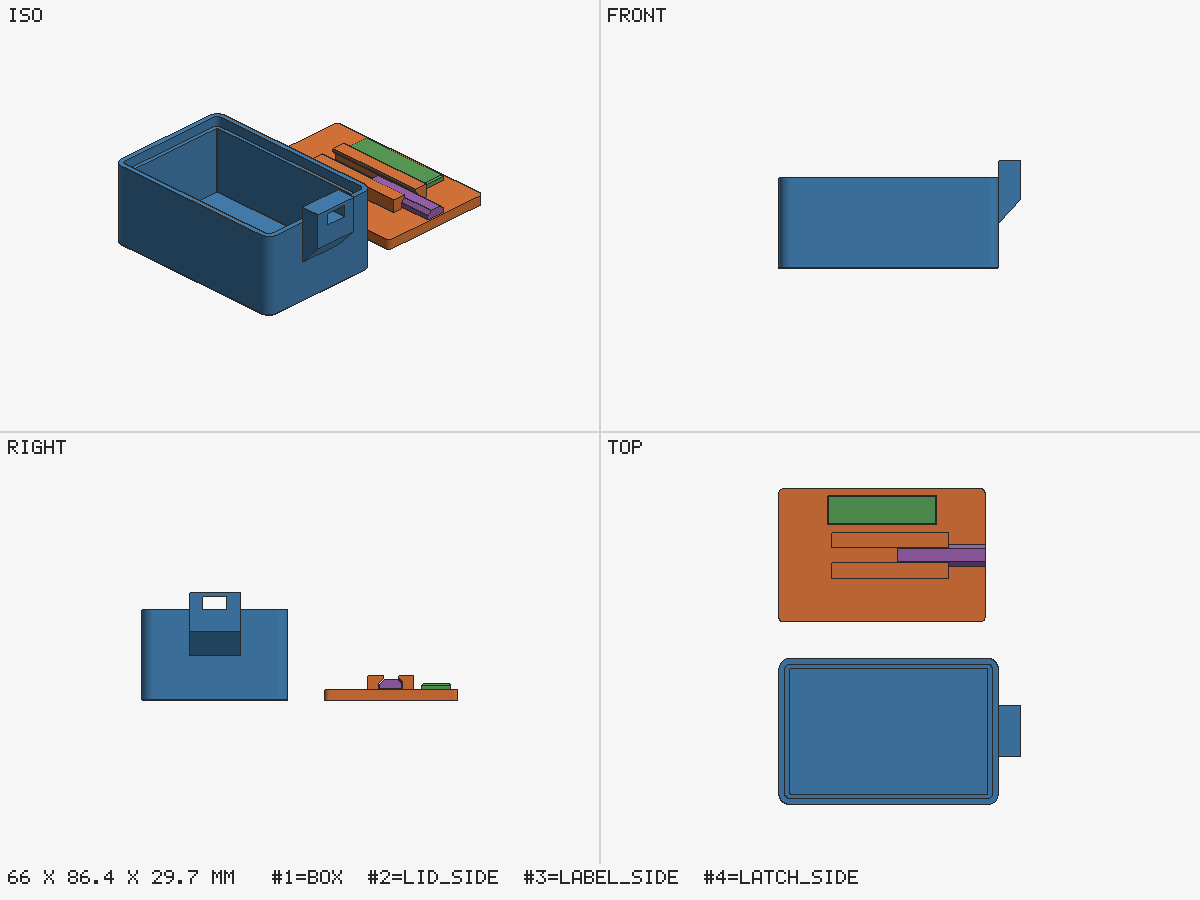
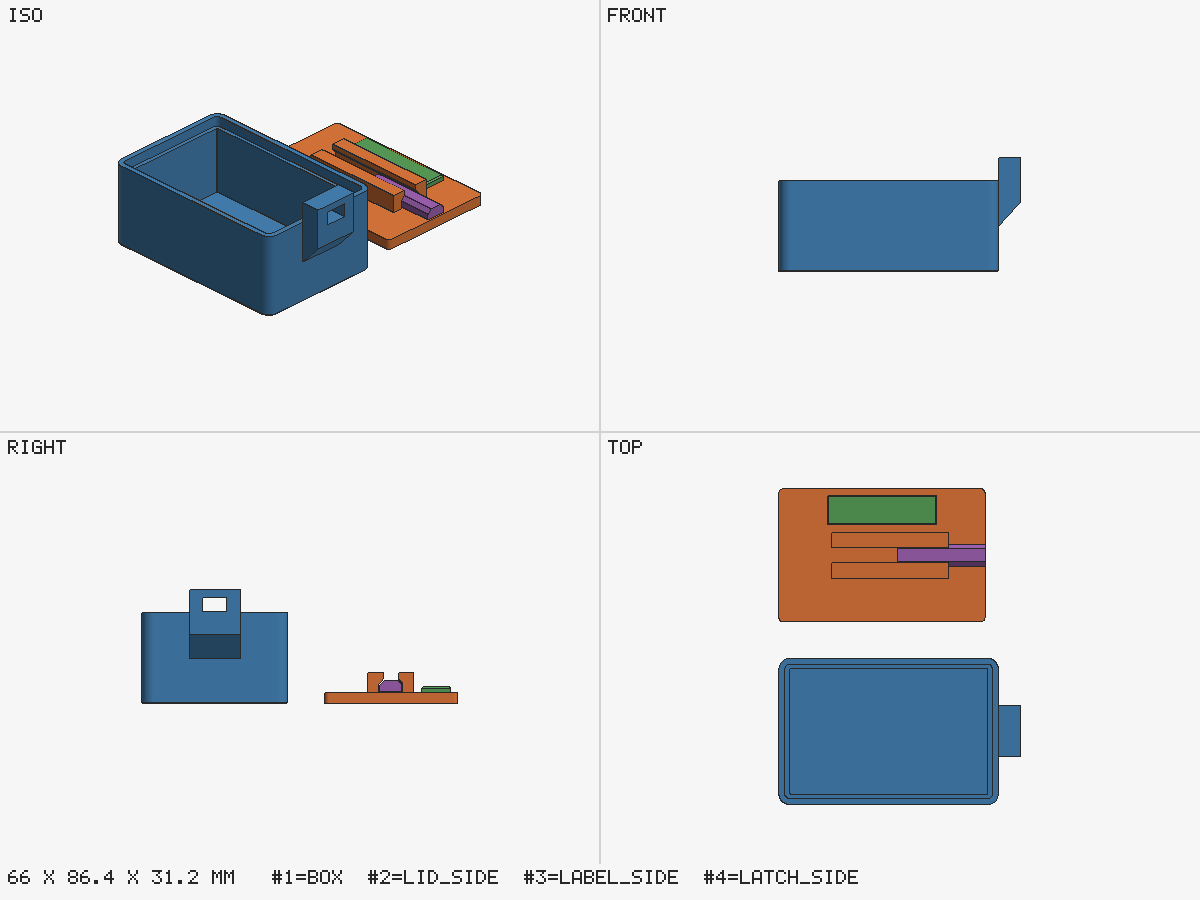
Mechanism minimums from the field: design.md section, hinge defaults, latch-box thickened
The field test's adapter was printed and its print-in-place draw latches broke
on first use: stub pins of 2.6 mm in about 2 mm plates, 1.3 mm of knuckle wall,
1.2 mm link arms, every member at the P3 printability minimum. A working
print-in-place latch from an earlier project (one 3.2 mm through pin in 4.25 mm
rails, at least 2.2 mm of wall around the hole, 2.5 mm at the thinnest member,
about six times the material) gives the starting points, recorded in design.md
"Mechanisms that carry load" with the failed-vs-working table and marked as a
one-pair field comparison, not a standard: pin >= 3.2 mm, pin wall >= 2.2 mm,
members >= 2.5 mm in bending and >= 4 mm wide, one through pin supported at both
ends, 0.3-0.35 mm radial clearance; flexures stay with the snap-fit check.

parts.hinge() defaults to pin 3.2, knuckle 8.4, leaf 2.6 and refuses a thinner
pin, wall, leaf or knuckle with the source named; decorative=True relaxes them
to what still prints for a hinge that carries nothing. The other helpers build
no pins (standoff's 2 mm boss wall follows the insert guidance). examples/latch-box
thickens its bar (3.0), rail lips (1.6 at the tip) and lug ceiling (2.5), with
new previews, README numbers and expects. SKILL.md gains checklist row P7 and
one line each in Phase 3 and 4; fusion.md and the Builder point to the section;
the changelog says what failed and why the numbers are starting points.

Claude-Session: https://claude.ai/code/session_01Wtr1X1KLx9gRHT2MgT9VdH

diff --git a/scripts/parts.py b/scripts/parts.py
@@ -534,29 +534,51 @@ def snap_window(length: float = 16.0, thickness: float = 1.6, width: float = 6.0
 # --------------------------------------------------------------------------- #
 # Print-in-place hinge (axis along X, lying on the bed)
 # --------------------------------------------------------------------------- #
-def hinge(length: float = 30.0, knuckle_d: float = 8.0, pin_d: float = 3.0, leaf_w: float = 12.0,
-          leaf_t: float = 2.4, knuckles: int = 3, clearance: float = PRINT_IN_PLACE_CLEARANCE,
-          segments: int | None = None) -> dict:
+# Mechanism minimums for members that carry load (design.md, "Mechanisms that carry load":
+# field comparison 2026-10 of a failed and a working print-in-place latch; starting points).
+MECHANISM = {"pin_d": 3.2, "pin_wall": 2.2, "member": 2.5, "knuckle_len": 4.0}
+# What still prints: a decorative hinge that carries nothing (tolerances.md limits).
+DECORATIVE = {"pin_d": 2.0, "pin_wall": 1.2, "member": 1.2, "knuckle_len": 2.0}
+
+
+def hinge(length: float = 30.0, knuckle_d: float = 8.4, pin_d: float = 3.2, leaf_w: float = 12.0,
+          leaf_t: float = 2.6, knuckles: int = 3, clearance: float = PRINT_IN_PLACE_CLEARANCE,
+          segments: int | None = None, decorative: bool = False) -> dict:
     """Two leaves joined by a pin, printed assembled. Axis along X at z = knuckle_d / 2, leaf A on
     -Y, leaf B on +Y, both flat on the bed. Knuckles alternate A, B, A ... along X with
     `clearance` between them; the pin is part of A and runs through B's knuckles with
     `clearance` all round. The pin is a teardrop (round below, 45-degree point on top) so it
     prints without support, and the knuckles have a flat underside.
 
+    Defaults follow design.md's mechanism minimums (a hinge carries load): pin 3.2 mm, 2.3 mm
+    of knuckle wall around the pin hole (8.4 - 3.2 - 2 x 0.3, halved), leaves 2.6 mm, knuckles
+    9.8 mm long. Thinner values raise ValueError; `decorative=True` relaxes them to what still
+    prints (pin 2.0, wall and leaf 1.2, knuckles 2 mm) for a hinge that carries nothing, such
+    as a box lid that is only looked at.
+
     Returns {"leaf_a": Manifold, "leaf_b": Manifold}: two bodies that never touch. Export both
     into ONE STL (validate with --shells 2) or two STLs placed as built."""
     if knuckles < 2:
         raise ValueError("a hinge needs at least two knuckles")
+    lim = DECORATIVE if decorative else MECHANISM
+    why = "tolerances.md limits (decorative=True)" if decorative else "design.md, Mechanisms that carry load"
     R = knuckle_d / 2
     rp = pin_d / 2
-    if rp + clearance >= R - 1.2:
-        raise ValueError("knuckle wall around the pin is thinner than 1.2 mm; raise knuckle_d")
+    wall = R - (rp + clearance)
+    if pin_d < lim["pin_d"] - 1e-9:
+        raise ValueError(f"pin {pin_d} mm is under the {lim['pin_d']} mm minimum ({why})")
+    if wall < lim["pin_wall"] - 1e-9:
+        raise ValueError(f"knuckle wall around the pin is {wall:.2f} mm, under the {lim['pin_wall']} mm minimum ({why}); "
+                         f"raise knuckle_d to at least {pin_d + 2 * clearance + 2 * lim['pin_wall']:.1f}")
+    if leaf_t < lim["member"] - 1e-9:
+        raise ValueError(f"leaf {leaf_t} mm is under the {lim['member']} mm minimum for a member that carries load ({why})")
     if leaf_t > R:
         raise ValueError("leaf thickness must not exceed the knuckle radius")
     seg = segments or circle_segments(R)
     kl = (length - (knuckles - 1) * clearance) / knuckles          # knuckle length along X
-    if kl < 2.0:
-        raise ValueError("knuckles shorter than 2 mm; use fewer knuckles or a longer hinge")
+    if kl < lim["knuckle_len"] - 1e-9:
+        raise ValueError(f"knuckles {kl:.1f} mm long, under the {lim['knuckle_len']} mm minimum ({why}); use fewer "
+                         "knuckles or a longer hinge")
 
     def tombstone(r: float) -> CrossSection:
         """Circle of radius r at (0, r) with a flat bottom on y = 0 (profile in the YZ plane)."""

diff --git a/examples/latch-box/latchbox.py b/examples/latch-box/latchbox.py
@@ -6,7 +6,9 @@ at the origin, Z = 0 on the bed): the lid plate with its two rails, the label pl
 sits on the lid (role fused: shared face, no union, so the slicer shows it as its own part
 and it can take another filament), and the latch bar that lies between the rails under
 their lips (role free: 0.3 mm to the rails, 0.4 mm = two layers above the plate, bridged).
-Pushed outwards, the bar enters a window in the keeper lug on the box wall.
+Pushed outwards, the bar enters a window in the keeper lug on the box wall. The bar, the
+rail lips and the lug ceiling carry the lid-lift load, so they follow design.md's mechanism
+minimums (>= 2.5 mm in the bending direction), not the 1.2 mm printability minimum.
 """
 import manifold3d as m3d
 import parts
@@ -28,14 +30,14 @@ DEFAULTS = {
     "pip": 0.3,             # mm per side, print-in-place gap (tolerances.md)
     "z_gap": 0.4,           # mm, latch above the lid: two 0.2 mm layers, bridged
     "bar_w": 6.0,           # mm, latch bar width
-    "bar_h": 2.5,           # mm, latch bar height to its flat top
+    "bar_h": 3.0,           # mm, latch bar height to its flat top (design.md mechanisms: >= 2.5 in bending)
     "bar_len": 24.0,        # mm
     "bar_chamfer": 1.2,     # mm, 45-degree chamfer on the bar's top edges (under the lips)
     "rail_w": 3.0,          # mm, rail width
-    "rail_h": 4.0,          # mm, rail height above the lid
+    "rail_h": 5.4,          # mm, rail height above the lid (z_gap + bar_h + pip + lip_t)
     "rail_len": 32.0,       # mm
     "lip": 1.2,             # mm, how far the lip reaches over the bar
-    "lip_t": 0.8,           # mm, lip thickness at its tip
+    "lip_t": 1.6,           # mm, lip thickness at its tip (the lip carries the lid-lift load; root about 2.9)
     "travel": 6.0,          # mm, how far the bar is pushed to lock (into the lug window)
     "label_w": 30.0,        # mm, label plate (colour part)
     "label_d": 8.0,         # mm
@@ -91,7 +93,7 @@ def build(params):
     # window the latch bar slides into (0.3 mm clearance all round, 0.1 mm above the rim).
     lo, lw = p["lug_out"], p["lug_w"]
     cy = d / 2
-    z_top = h + p["z_gap"] + p["bar_h"] + p["pip"] + 1.5
+    z_top = h + p["z_gap"] + p["bar_h"] + p["pip"] + 2.5             # 2.5 mm of lug above the window (design.md mechanisms)
     lug_pts = [(w - 0.01, h - lo * 1.1 - 6.0), (w + lo, h - 6.0), (w + lo, z_top), (w - 0.01, z_top)]
     lug = M.extrude(CS([lug_pts]), lw).rotate([90, 0, 0]).translate([0, cy + lw / 2, 0])
     box += lug

diff --git a/tests/test_parts.py b/tests/test_parts.py
@@ -174,15 +174,33 @@ class SnapFits(PartCase):
 class Hinges(PartCase):
     def test_print_in_place_hinge(self):
         h = parts.hinge()
-        a = self.assertSolid(h["leaf_a"], bbox=[30, 20.3, 8])
-        b = self.assertSolid(h["leaf_b"], bbox=[30, 20.3, 8])
-        self.assertSolid(h["leaf_a"] + h["leaf_b"], shells=2, bbox=[30, 32.6, 8])
+        a = self.assertSolid(h["leaf_a"], bbox=[30, 20.7, 8.4])
+        b = self.assertSolid(h["leaf_b"], bbox=[30, 20.7, 8.4])
+        self.assertSolid(h["leaf_a"] + h["leaf_b"], shells=2, bbox=[30, 33.0, 8.4])
         self.assertEqual((h["leaf_a"] ^ h["leaf_b"]).volume(), 0.0)
         self.assertAlmostEqual(h["leaf_a"].min_gap(h["leaf_b"], 1.0), 0.3, delta=0.01)   # tolerances.md
         self.assertEqual(a["bbox_min_mm"][2], 0.0)                                      # both on the bed
         self.assertEqual(b["bbox_min_mm"][2], 0.0)
-        with self.assertRaises(ValueError):
-            parts.hinge(knuckle_d=5, pin_d=3)                                 # wall under 1.2 mm
+
+    def test_mechanism_minimums(self):
+        """design.md, Mechanisms that carry load: a pin wall under 2.2 mm, a leaf under 2.5 mm, a
+        knuckle under 4 mm or a pin under 3.2 mm is refused with the source named."""
+        cases = {"wall": dict(knuckle_d=7.0, pin_d=3.2),            # (7 - 3.8) / 2 = 1.6 mm
+                 "pin": dict(pin_d=2.6, knuckle_d=8.0),
+                 "leaf": dict(leaf_t=2.0),
+                 "knuckles": dict(length=12.0, knuckles=3)}         # (12 - 0.6) / 3 = 3.8 mm
+        for name, kw in cases.items():
+            with self.assertRaisesRegex(ValueError, "design.md", msg=name):
+                parts.hinge(**kw)
+        self.assertEqual(parts.MECHANISM, {"pin_d": 3.2, "pin_wall": 2.2, "member": 2.5, "knuckle_len": 4.0})
+        # The failed field latch's numbers: a 2.6 mm pin in a 6.0 mm knuckle is refused outright.
+        with self.assertRaisesRegex(ValueError, "minimum"):
+            parts.hinge(knuckle_d=6.0, pin_d=2.6)
+        # A hinge that carries nothing may go down to what still prints.
+        h = parts.hinge(length=16, knuckle_d=5.2, pin_d=2.0, leaf_t=1.6, knuckles=3, decorative=True)
+        self.assertSolid(h["leaf_a"] + h["leaf_b"], shells=2)
+        with self.assertRaisesRegex(ValueError, "tolerances.md"):
+            parts.hinge(knuckle_d=4.4, pin_d=2.0, decorative=True)       # wall 0.9 mm: does not print
 
 
 class Text(PartCase):

diff --git a/references/engines/fusion_builder.py b/references/engines/fusion_builder.py
@@ -28,7 +28,8 @@ parameter in Fusion's Change Parameters dialog rebuilds the model.
         print(B.export(r"C:\\path\\to\\out", ["body"]))  # one STL per body, JSON summary
 
 Derived from the Builder that ran in the 2026-10-17 field test (X2D exhaust adapter); this
-cleaned version has not yet been run in Fusion. Pure-Python helpers (frames, parameter names,
+cleaned version has not yet been run in Fusion. Size pins, knuckles and levers by design.md,
+"Mechanisms that carry load", not by the 1.2 mm printability minimum: that adapter's latches broke. Pure-Python helpers (frames, parameter names,
 box overlap, the summary) are unit-tested; the API calls are checked against the Fusion API
 reference only.
 """

diff --git a/references/design.md b/references/design.md
@@ -114,9 +114,43 @@ heads ISO 10642 (theoretical dk, 90°) [14]; M2/M2.5 countersink values are star
   layer of the upper part bridges the gap, so keep gaps a whole number of layer heights (0.2
   or 0.4 mm at 0.2 mm layers) where a surface sits above another (starting point).
 - Knuckles get a flat on the bed side; the leaf plates lie flat. `parts.hinge(...)` builds
-  such a hinge; validate it with `--shells 2` (two bodies that never touch).
+  such a hinge to the mechanism minimums below; validate it with `--shells 2` (two bodies
+  that never touch).
 - After the print, free the joint with a few firm twists before the parts cool completely
   (PLA is still soft) — tell the user.
+
+## Mechanisms that carry load
+
+P3's 1.2 mm is a **printability** minimum, not a strength minimum. A latch, lever, pin,
+knuckle or link that is pushed, pulled or snapped by hand sees far more than a wall does.
+Starting points for members that carry load (field comparison, 2026-10, one failed and one
+working print-in-place latch, PLA or PETG, 0.4 mm nozzle, 0.2 mm layers; starting points,
+not a standard):
+
+- **Pins** Ø ≥ 3.2 mm; one **through pin supported at both ends** (double shear) rather than
+  short stub pins in thin plates; engagement length ≥ about 3 × Ø where the design allows.
+- **Wall around a pin hole** ≥ 2.2 mm (about five 0.45 mm lines) all round, including
+  towards the bed.
+- **Arms, links, levers, hooks** ≥ 2.5 mm in the bending direction and ≥ 4 mm wide; a
+  curved 1.2 mm link is a hinge, not a member.
+- **Radial clearance** 0.3–0.35 mm at the pin (`tolerances.md`); the failed latch's 0.42 mm
+  did not help it.
+- Flexures designed by the strain formula (snap hooks, living hinges) are exempt: they follow
+  the snap-fit check above. Their roots still must not double as the wall of a pin hole.
+
+| Member | Failed latch (broke on first use) | Working latch |
+|---|---|---|
+| Pin | Ø2.6 stub pins, single-ended, in ~2 mm plates | one Ø3.2 through pin formed on the lever, both ends in 4.25 mm rails |
+| Hole and clearance | Ø3.45 teardrop, ~0.42 mm radial | Ø3.9, ~0.33 mm radial |
+| Wall around the pin | ~1.3 mm (knuckle ring OD 6.0) | ≥ 2.2 mm (2.4 mm to the bed), block 8.3 × 10.8 × 18.4 |
+| Load-carrying arms | 1.2 × ~2.2 mm, curved | rails 4.25 wide, 2.5 mm at the thinnest notch, 3.6–7.4 elsewhere |
+| Bars | 1.7 × 2.6 and 2.2 × 2.4 mm | lever plate 20 × 2.6 mm at its thinnest |
+| Material per latch | ~640 mm³ | ~3 820 mm³ (about 6×) |
+
+The agent checks every load-carrying member against these numbers in the dimension table
+(checklist P7), the same way it checks walls against P3. `parts.hinge()` refuses a pin wall
+under 2.2 mm, a leaf under 2.5 mm or a knuckle under 4 mm unless `decorative=True` says the
+hinge carries nothing.
 
 ## Colour and function seams: split into parts
 

diff --git a/SKILL.md b/SKILL.md
@@ -207,6 +207,9 @@ Write one generator script:
   signs, inserts): separate bodies that touch the main body (shared faces, no union), seams in
   low-stress places; print-in-place pieces keep their clearance. Never ask the user about
   colours: split, give every part the main filament, say so at delivery (`references/parts.md`).
+- **Members that carry load** (pins, knuckles, levers, links, hooks, latch bars) are sized by
+  `references/design.md`, "Mechanisms that carry load", not by P3's 1.2 mm, which is only what
+  prints: list each with its section in the dimension table (P7).
 
 - Design to the recommended values in `references/tolerances.md`, not to the minimums: a wall
   planned at exactly 1.2 mm can fail its own check through floating-point rounding.
@@ -268,7 +271,8 @@ python3 "$SKILL_DIR/scripts/fit.py" out/box.stl out/lid.stl --b-rotate 180,0,0 \
   --b-translate 0,40,33 --min-clearance 0.2
 ```
 
-`fit.py` places part B as assembled (rotation about its origin, then translation), then measures
+Every pin, knuckle, lever and latch bar is checked against the mechanism minimums (P7) before
+the fit, not after the print. `fit.py` places part B as assembled (rotation about its origin, then translation), then measures
 the overlap volume, how far B can move sideways before it touches A (`play`, the real clearance of
 a seated part), the smallest gap and the contact area, and prints a verdict in the validate.py
 style: FAIL on overlap, WARN when the play is below `--min-clearance` or the parts bind, PASS
@@ -374,6 +378,7 @@ overwrite an existing path: if it exists, ask and stop (the scripts refuse as we
 | P4 | Unsupported bridges | soft | not in v1 (UNVERIFIED) | user |
 | P5 | Minimum feature size | soft | not in v1 (UNVERIFIED) | user |
 | P6 | No fillet on edges that touch the bed (chamfer, or sharp with slicer elephant-foot compensation) | soft | you, from the preview.py image | user |
+| P7 | Load-carrying mechanism members meet the minimums in `design.md` (pin ≥ 3.2, pin wall ≥ 2.2, member ≥ 2.5 mm) | soft | you, from the dimension table | user |
 | F1 | Hole compensation applied in exactly one place | hard | you | Phase 4 |
 | F2 | Each fit has the clearance for its kind | hard | you | Phase 4 |
 | F3 | Every joint checked from both sides: no overlap, the play of the fit kind | hard | fit.py | Phase 4 |

diff --git a/CHANGELOG.md b/CHANGELOG.md
@@ -76,6 +76,17 @@ housing to a 100 mm duct, designed in Fusion through MCP, fit-tested and printed
   `validate.py` flags an `expect` with four or more decimals that matches the mesh to 0.001 mm.
   Every delivery repeats unverified dimensions, `_assumptions` and open WARNs, and a skipped fit
   test is recorded as unconfirmed in `_assumptions` before delivery.
+- **Mechanism minimums** (`design.md`, "Mechanisms that carry load"; checklist P7). The field
+  test's adapter was printed and its print-in-place draw latches broke on first use: Ø2.6 stub
+  pins in ~2 mm plates, 1.3 mm of knuckle wall, 1.2 mm link arms, every member at the P3
+  printability minimum. A working print-in-place latch from an earlier project (one Ø3.2
+  through pin in 4.25 mm rails, ≥ 2.2 mm of wall around the hole, 2.5 mm at the thinnest
+  member, about 6× the material) gives the starting points: pin ≥ 3.2 mm, pin wall ≥ 2.2 mm,
+  load-carrying members ≥ 2.5 mm in the bending direction and ≥ 4 mm wide, one through pin
+  supported at both ends, 0.3–0.35 mm radial clearance. These are a one-pair field comparison,
+  not a standard. `parts.hinge()` now defaults to them (pin 3.2, knuckle 8.4, leaf 2.6) and
+  refuses thinner values unless `decorative=True`; `examples/latch-box` thickens its bar, rail
+  lips and lug ceiling accordingly.
 - `examples/latch-box`: a box whose lid carries a separate label part (colour) and a captive
   print-in-place slider latch, grouped into one object; its README shows the object checks, the
   fit check and the expected P2 warning for the latch's bridged underside.

diff --git a/examples/latch-box/README.md b/examples/latch-box/README.md
@@ -21,6 +21,10 @@ between two lipped rails; pushed outwards, the latch enters a window in the keep
 - **Grouped 3MF.** The core 3MF puts the three lid parts under one parent object with identity
   component transforms; `bambu3mf.py` would write one Bambu object with three parts and a
   per-part filament (not built here: the example names no slicer template).
+- **Load-carrying members at the mechanism minimums.** The bar (3.0 mm tall in the direction the
+  lid-lift load bends it, 6 mm wide), the rail lips (1.6 mm at the tip, about 2.9 at the root) and
+  the lug ceiling over the window (2.5 mm) follow `references/design.md`, "Mechanisms that carry
+  load", not the 1.2 mm printability minimum: a field latch built at 1.2 mm broke.
 - **The fit check.** The lid drops into the recess inside the box rim: `fit.py` finds no overlap,
   the lid seated on the ledge, and 0.2 mm of play in ±X and ±Y.
 
@@ -40,6 +44,6 @@ rim (wall 2.8 − rim 1.6 = 1.2 mm ledge, 0.2 mm clearance per side, 3 mm deep s
 `fit_report.json` is the output of the second command.
 
 Expected: build gate `PASS` with exactly one soft warning, `P2` on the `lid` object: the latch's
-underside (144 mm², 2.5 %) is a bridge over the 0.4 mm gap, which is how print-in-place parts
+underside (144 mm², 2.4 %) is a bridge over the 0.4 mm gap, which is how print-in-place parts
 print. Fit gate `PASS`. At delivery the agent says: "label and latch are separate parts of the
 lid; to print the label in another colour, select it in the object list and change its filament."

diff --git a/references/engines/python.md b/references/engines/python.md
@@ -59,7 +59,7 @@ mouth at z = 0 going down, overshooting the face by 0.1 mm). Defaults follow `de
 | `snap_hook(length, thickness, width, undercut, entry_angle, retention_angle, material)` | Cantilever hook lying flat (flexes in Y); raises when the strain exceeds the material limit |
 | `snap_window(...)` | Cutter for the matching window in the mating wall (snug clearance) |
 | `snap_fit_check(L, t, y, material, repeated)` | Strain, limit, `ok`, maximum deflection |
-| `hinge(length, knuckle_d, pin_d, leaf_w, leaf_t, knuckles, clearance)` | Print-in-place hinge: `{"leaf_a", "leaf_b"}`, two bodies that never touch (validate with `--shells 2`) |
+| `hinge(length, knuckle_d, pin_d, leaf_w, leaf_t, knuckles, clearance, decorative)` | Print-in-place hinge: `{"leaf_a", "leaf_b"}`, two bodies that never touch (validate with `--shells 2`). Defaults and refusals follow design.md's mechanism minimums (pin 3.2, pin wall 2.2, leaf 2.5, knuckle 4 mm); `decorative=True` only for a hinge that carries nothing |
 | `text(string, height, depth, font, align)` | Text solid (cap height in mm) to union (emboss) or subtract (engrave); needs matplotlib, or fontTools plus a font file |
 | `thread(d, pitch, length, internal, clearance)` | Approximate ISO thread: a rod, or with `internal=True` a cutter for a nut |
 | `clean(part)` | Welds the slivers hulls, Minkowski sums and some booleans leave (M3) |

diff --git a/references/engines/fusion.md b/references/engines/fusion.md
@@ -30,6 +30,9 @@ Paste the file above your `run()` or exec it from a file (below). It gives you:
 
 Name every body exactly like its `_parts` entry and export one STL per part; parts of one
 object are modelled in the same frame, so the STLs already hold the assembled positions.
+Pins, knuckles, levers and links that carry load follow `design.md`, "Mechanisms that carry
+load" (pin ≥ 3.2 mm, 2.2 mm of wall around it, members ≥ 2.5 mm): the field-test latch
+built at the 1.2 mm printability minimum broke on first use.
 Then record and validate:
 
 ```bash
